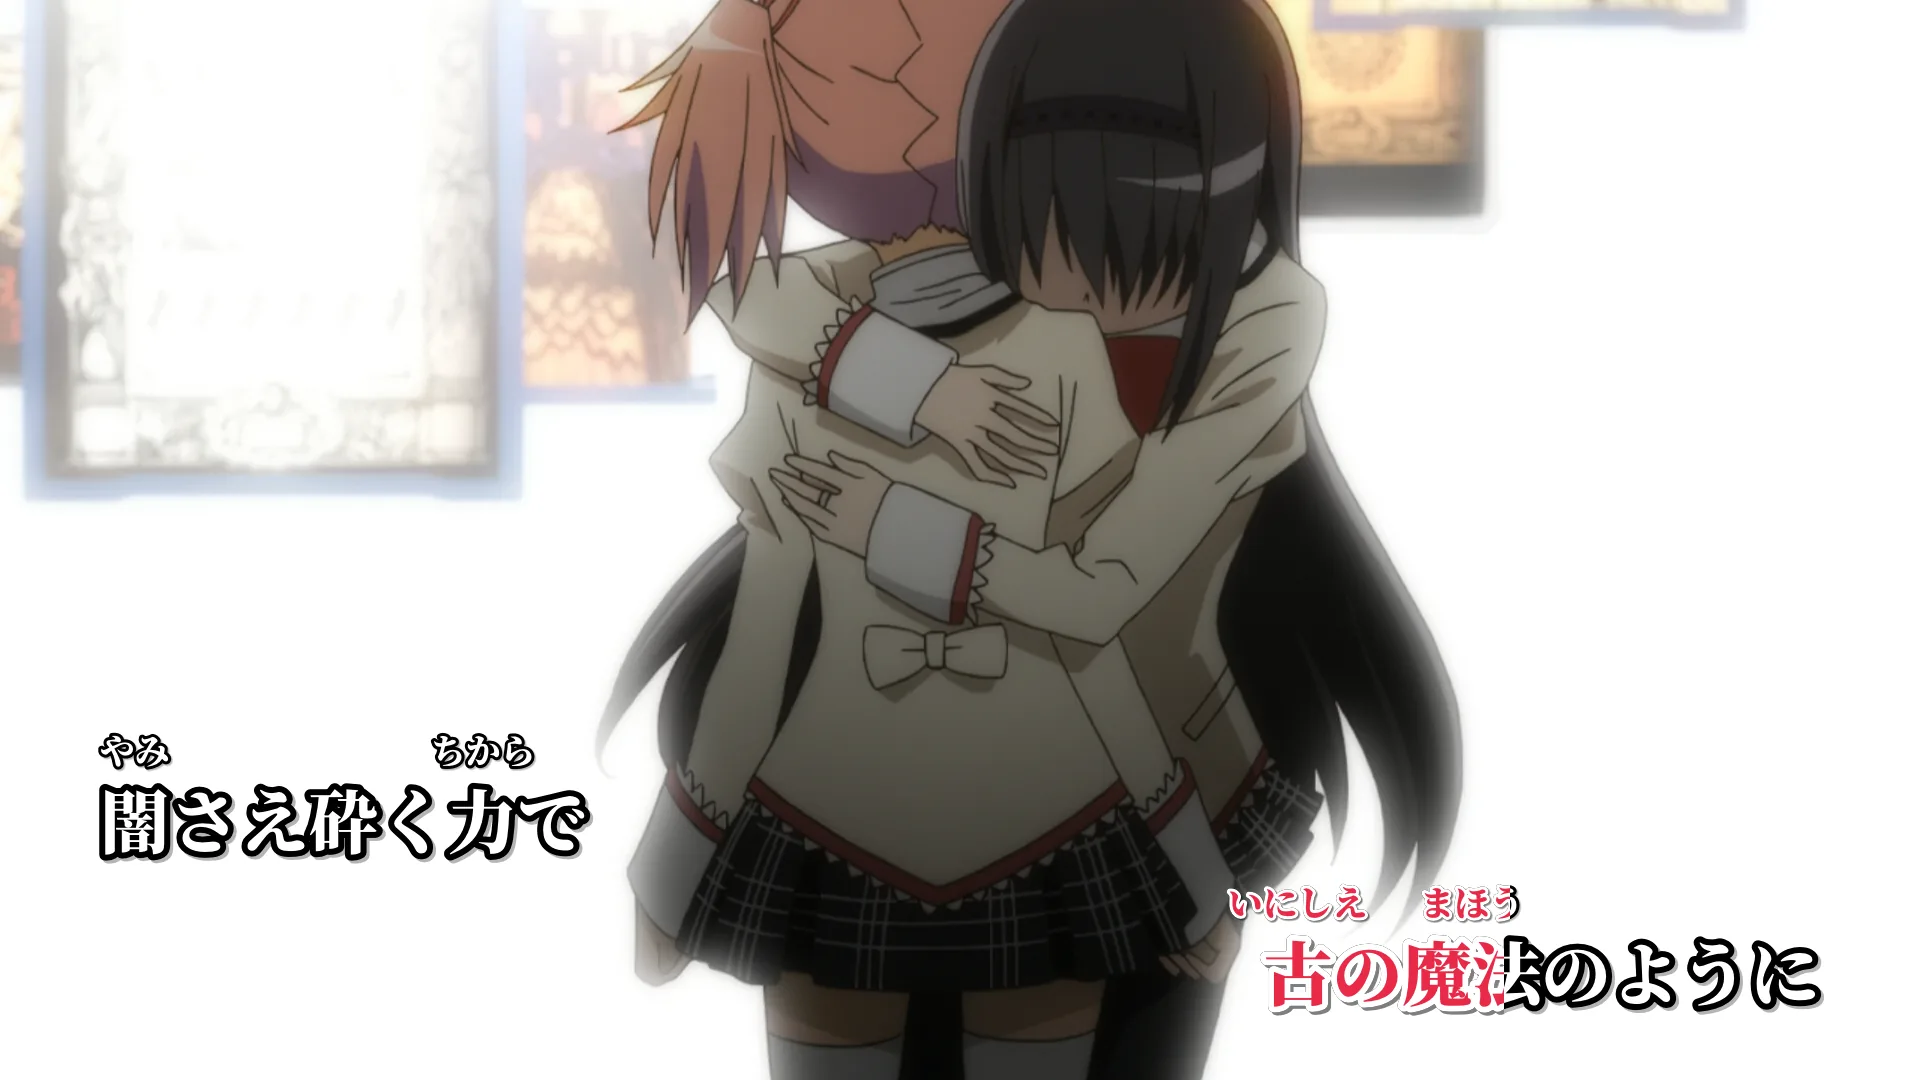
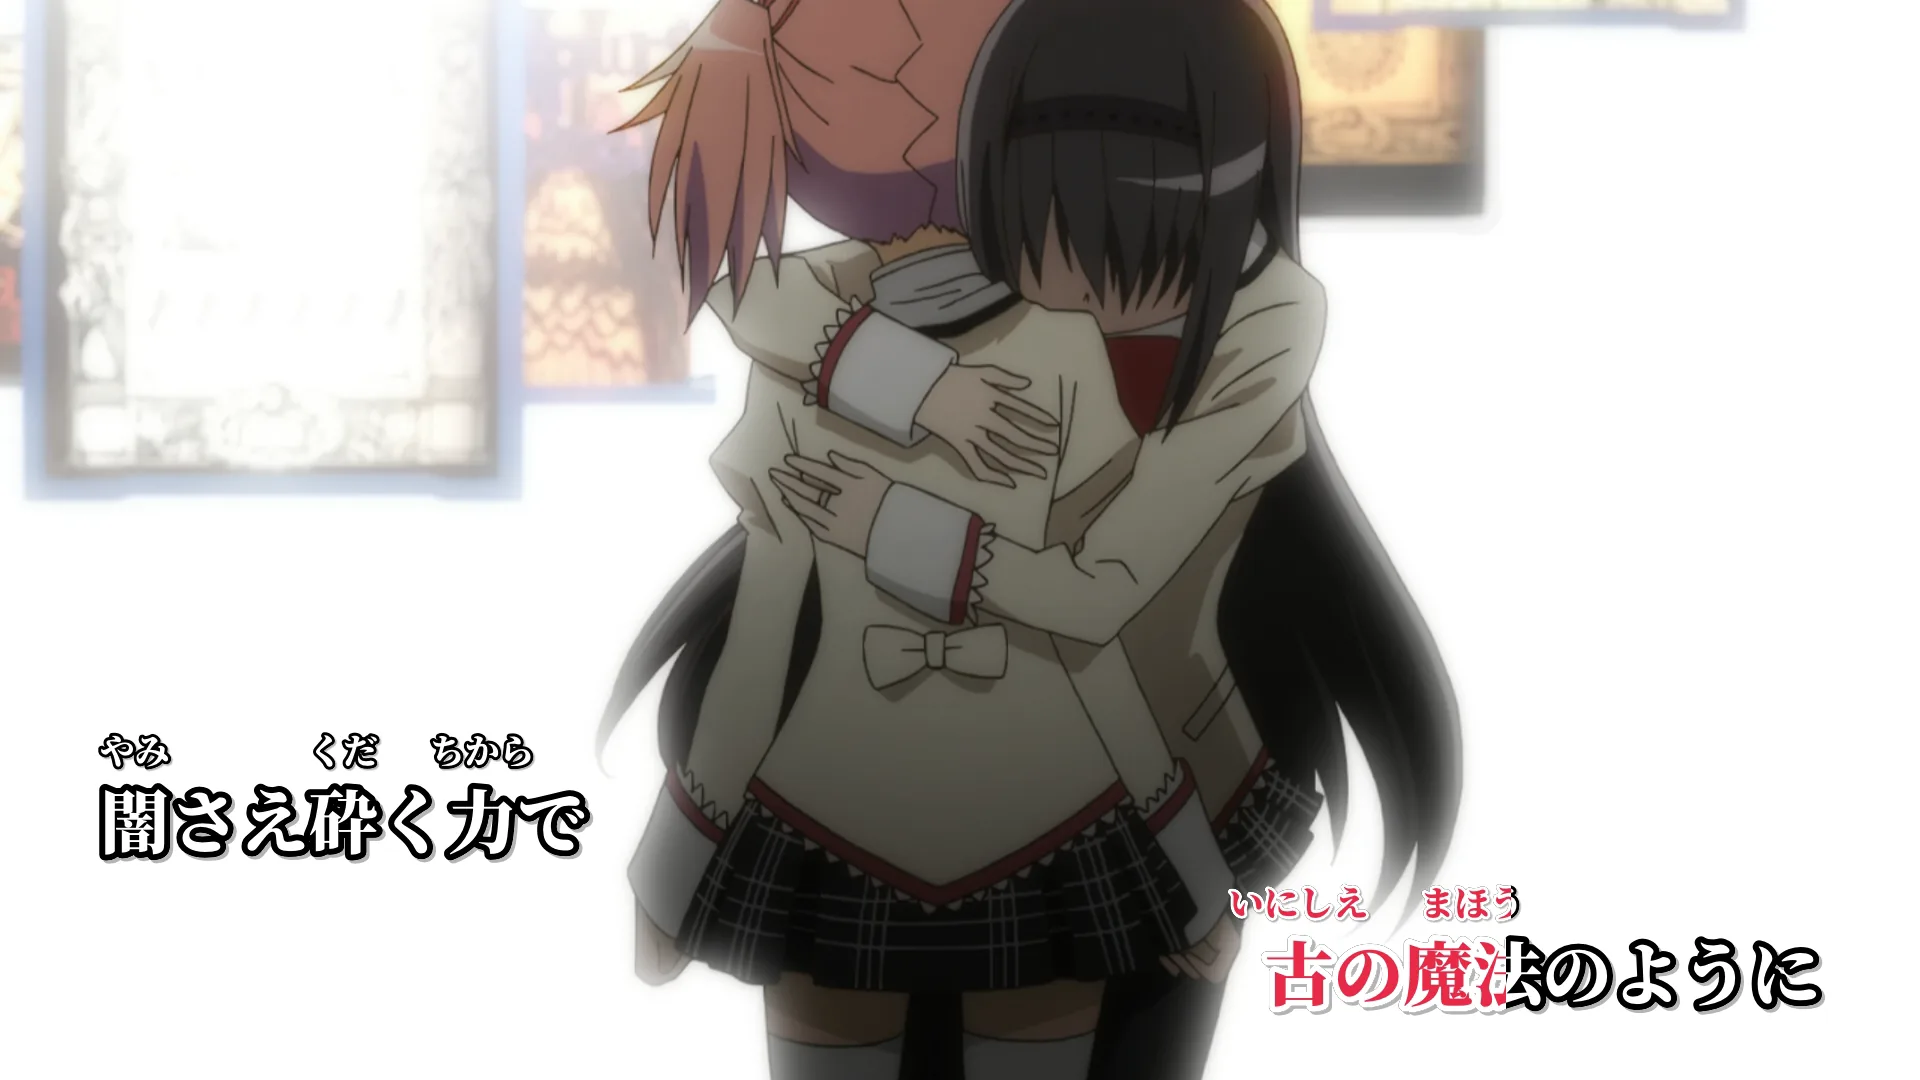
Fix a missing furigana reading in the preview image
Fix a "licence" typo in the template and examples.

Changed region(s): [[0.625, 0.825, 0.9375, 0.9472], [0.1562, 0.6722, 0.2812, 0.7333]]

diff --git a/src/karaoke_ass/__init__.py b/src/karaoke_ass/__init__.py
@@ -1,3 +1,3 @@
 """Two-row karaoke subtitle template for ASS, with furigana."""
 
-__version__ = "1.0.3"
+__version__ = "1.0.4"
